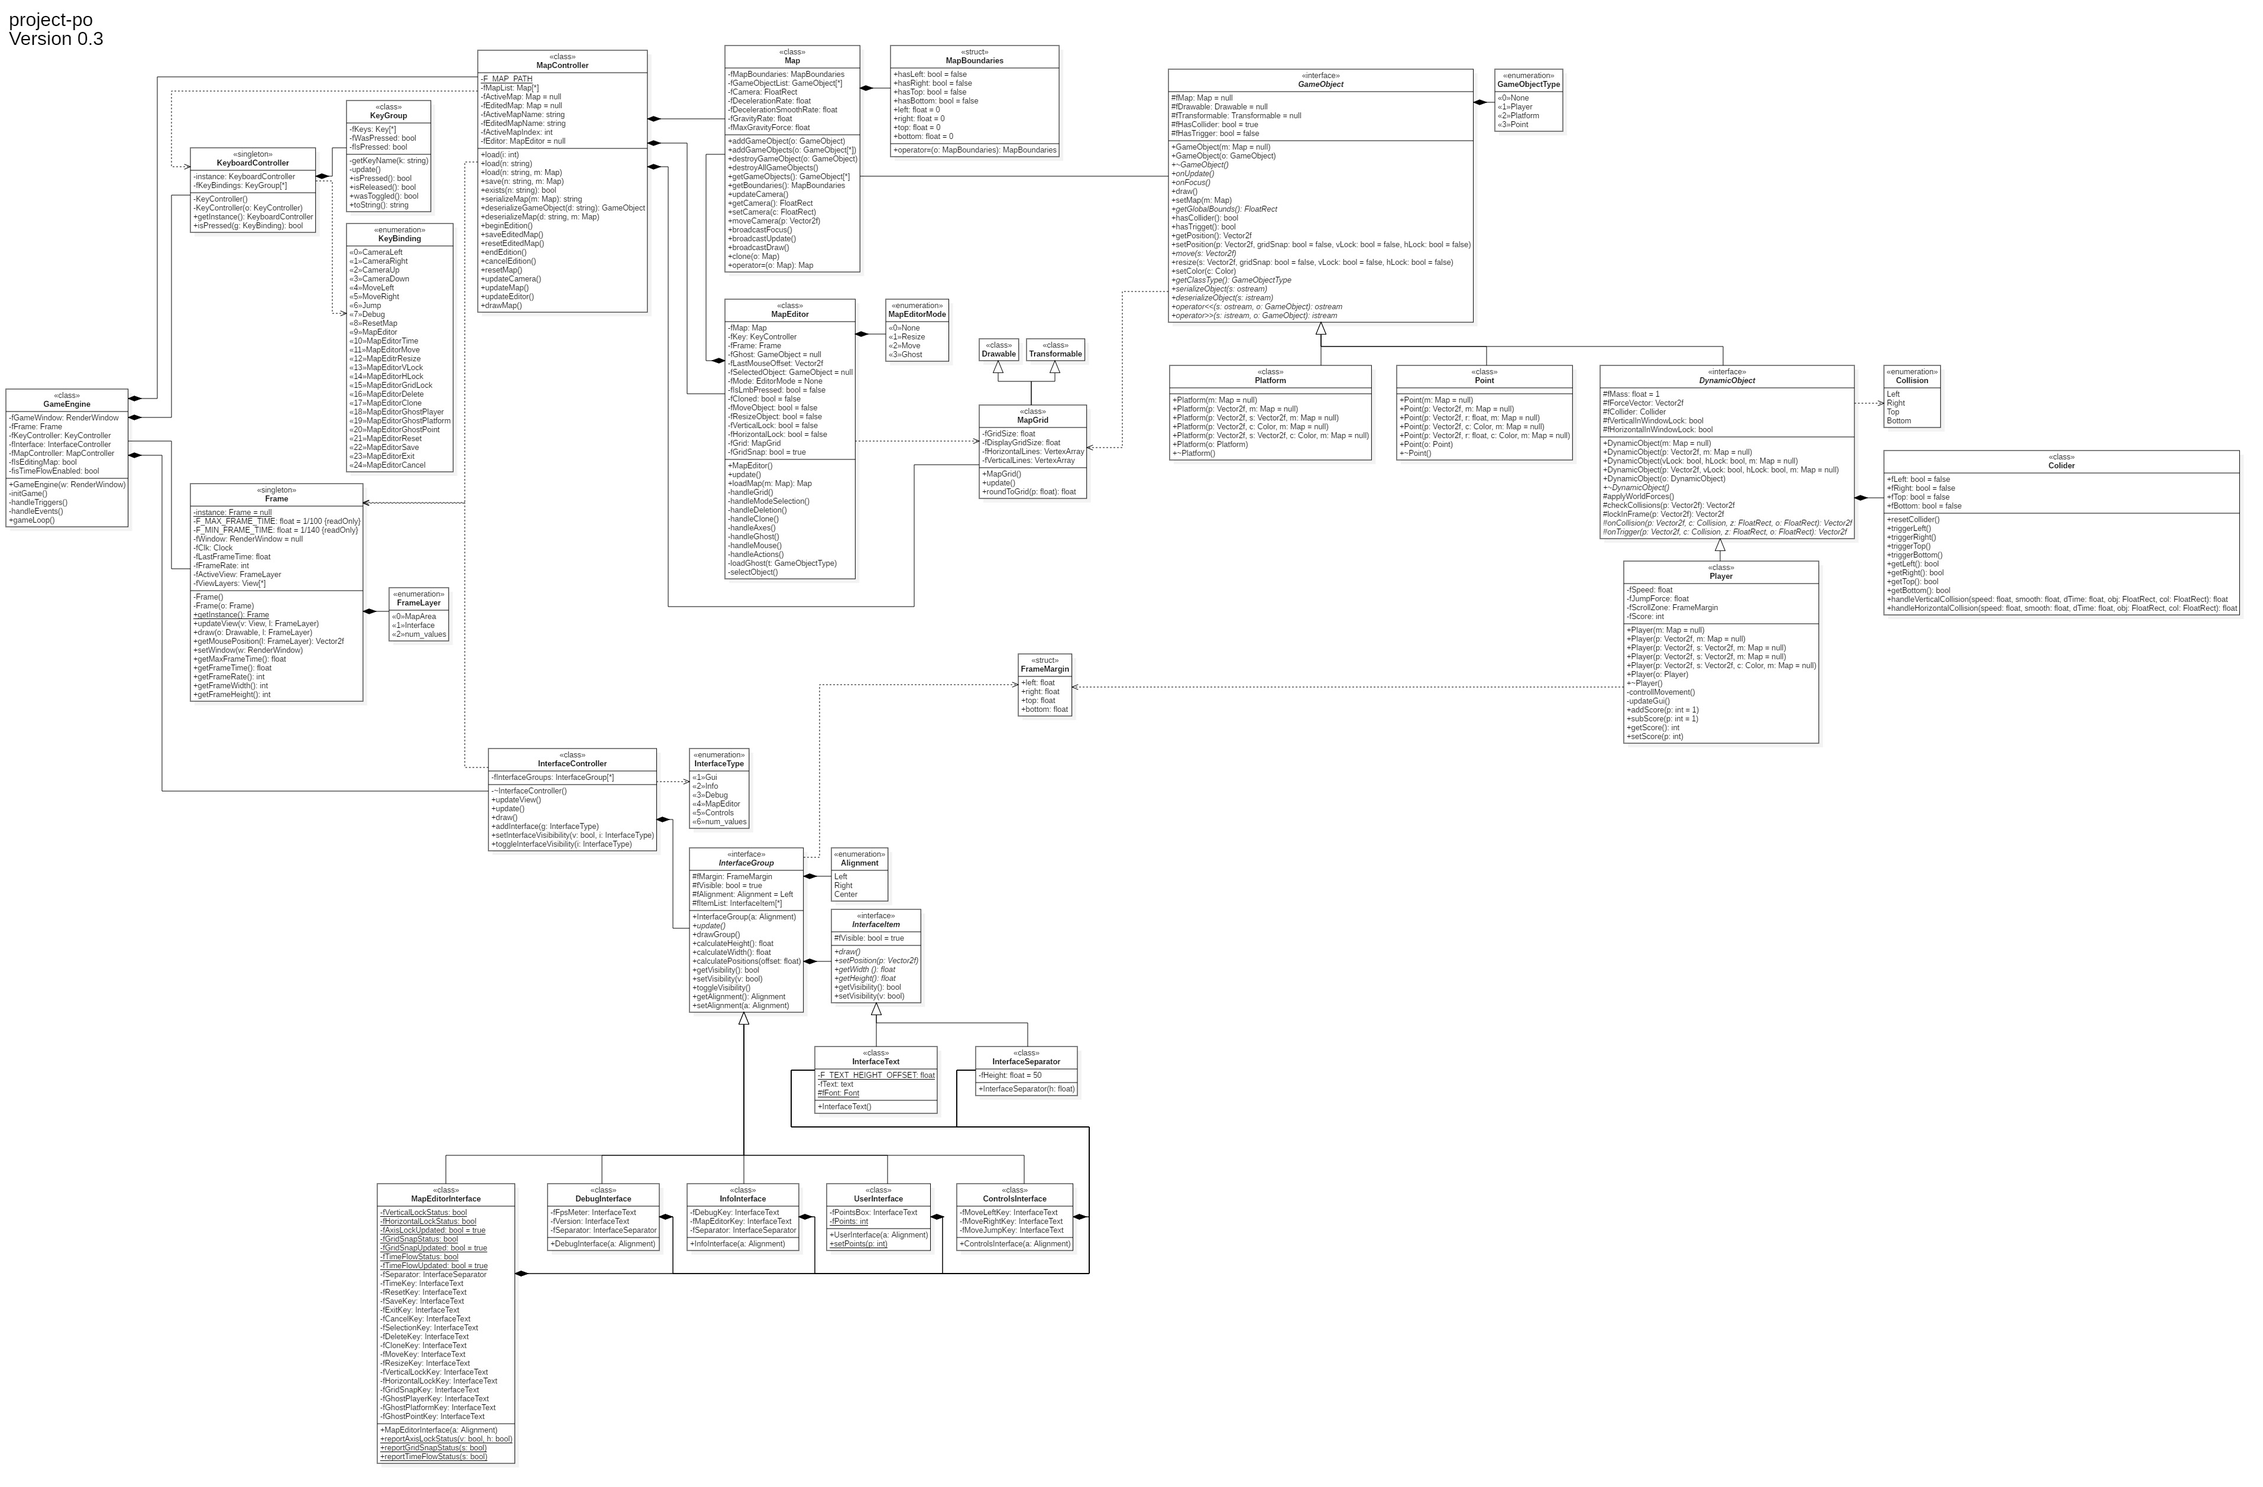
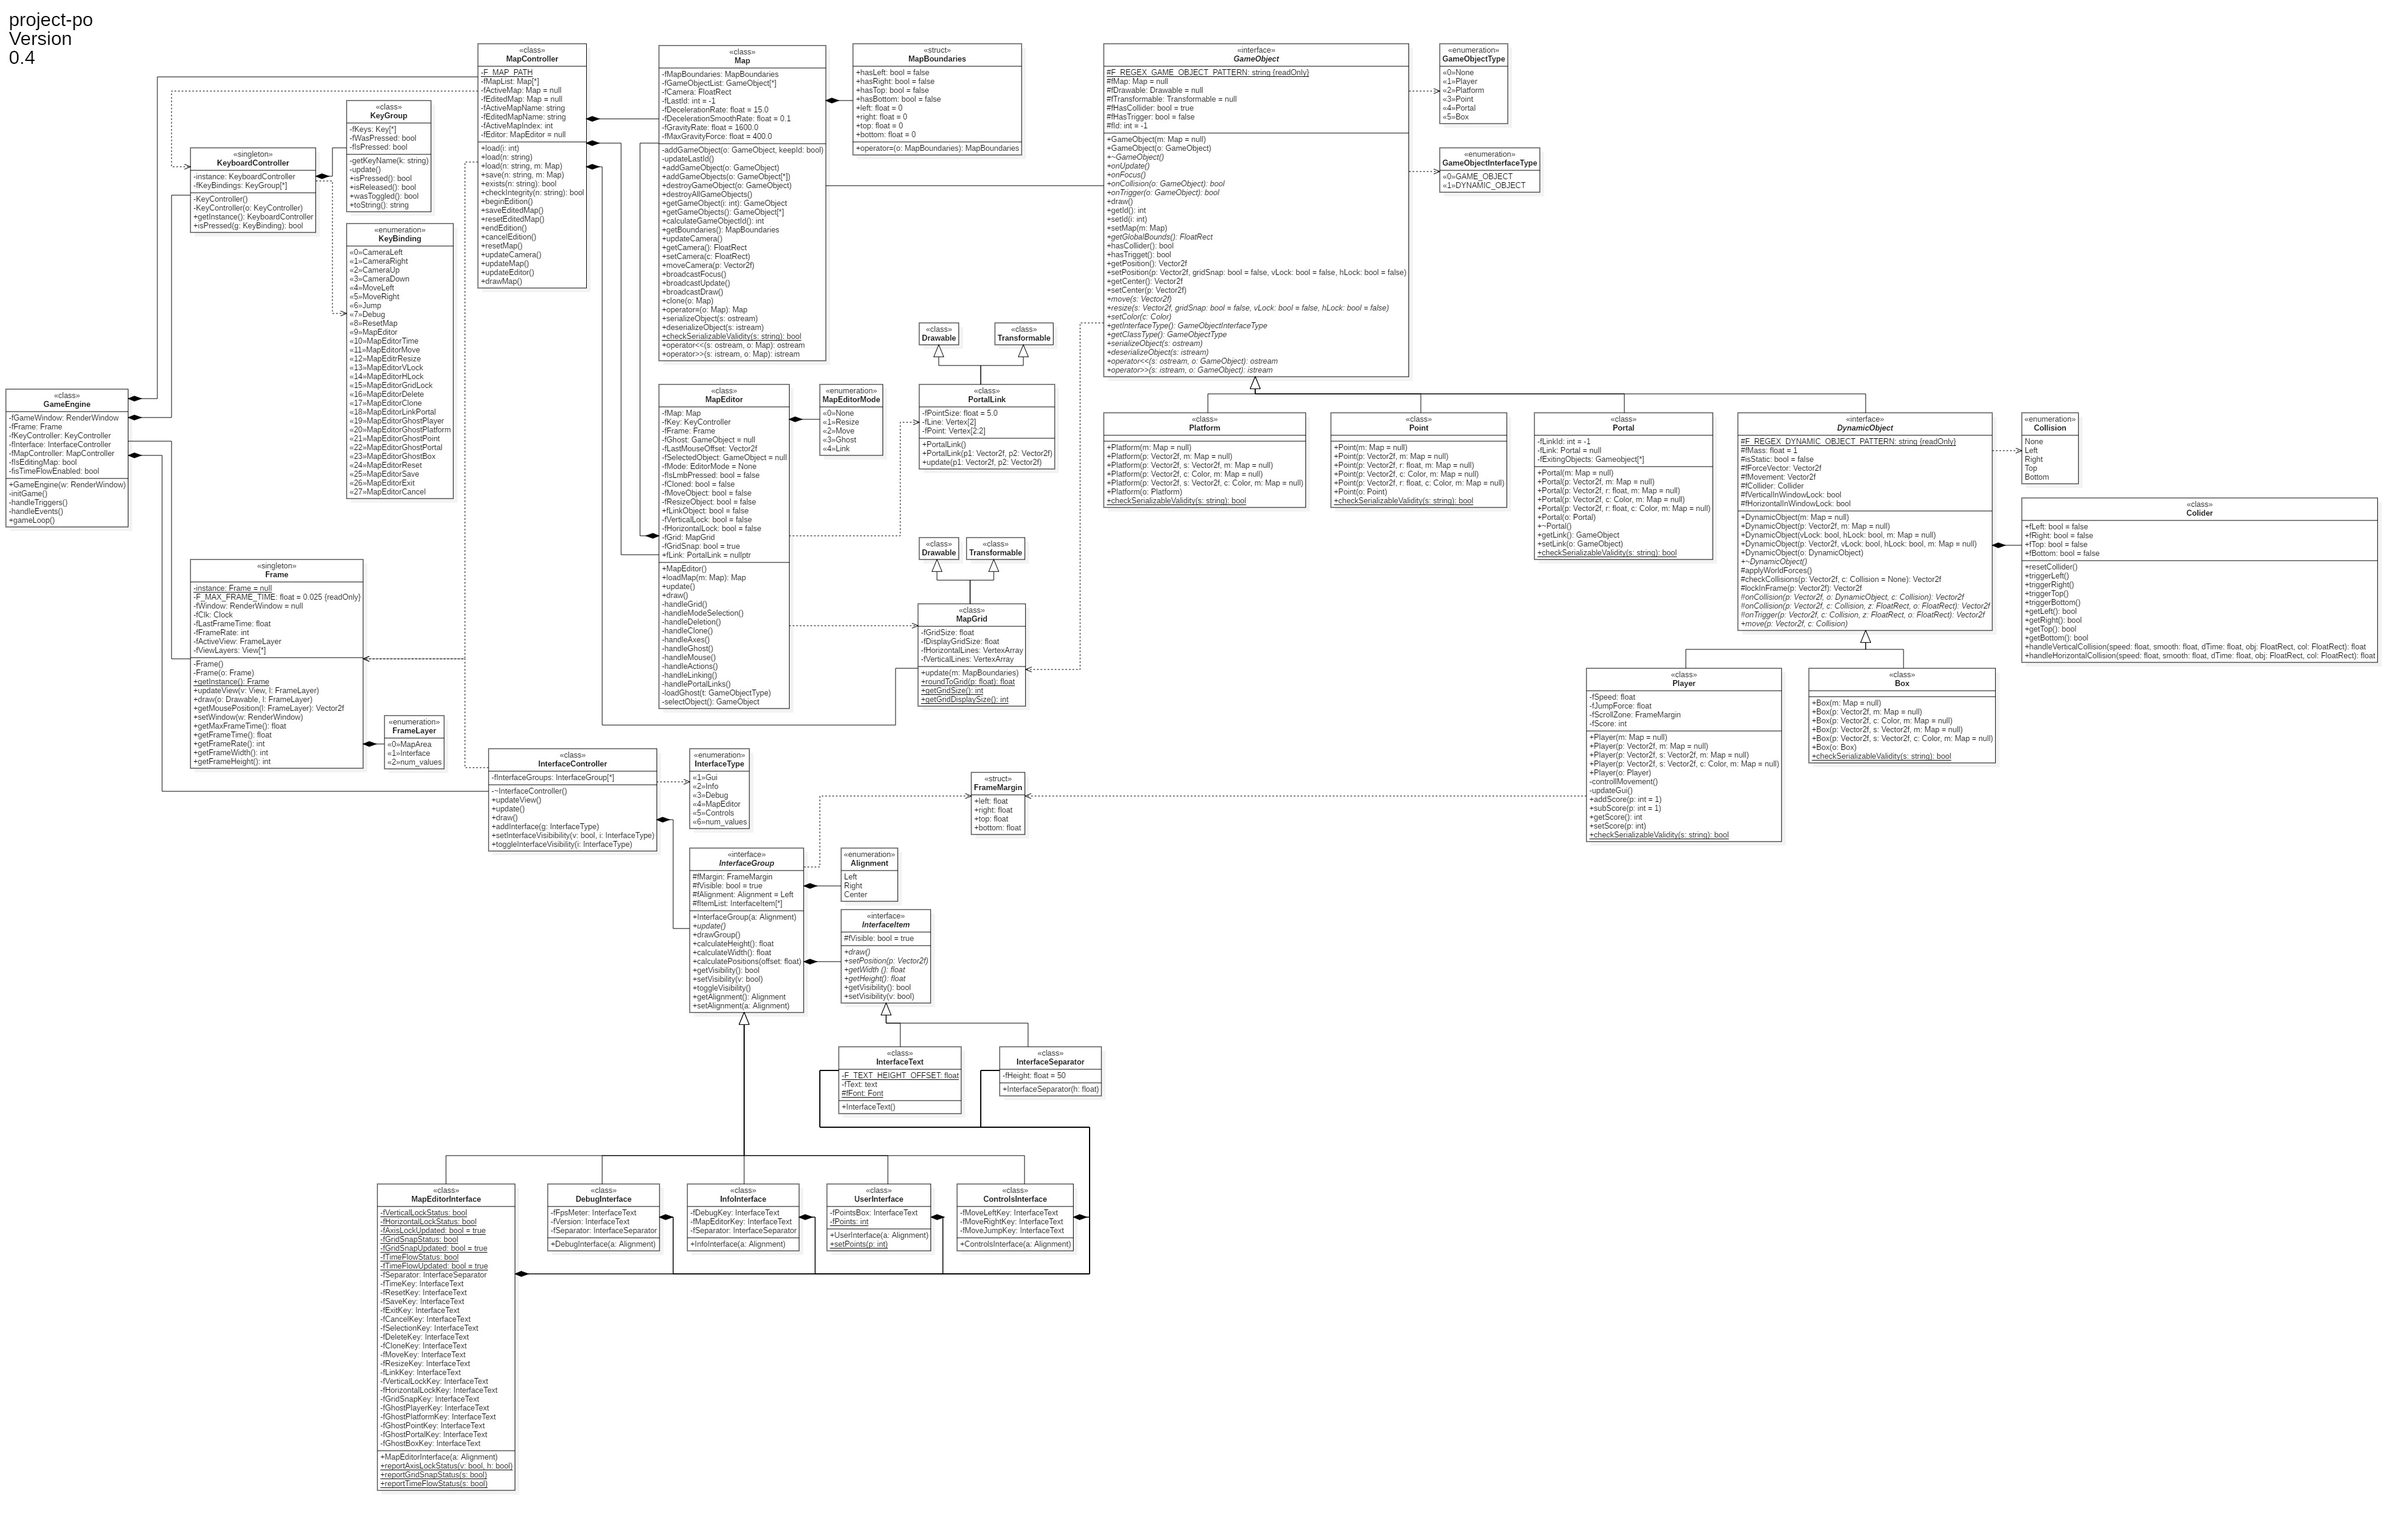
Updated UML, version 0.4

diff --git a/src/GameConstants.h b/src/GameConstants.h
@@ -1,7 +1,7 @@
 #pragma once
 #include <string>
 #include <SFML/Config.hpp>
-const std::string GAME_VERSION = "0.3"; 
+const std::string GAME_VERSION = "0.4"; 
 
 const std::string REGEX_WHITESPACE = "\\s*";
 const std::string REGEX_FLOAT_PATTERN = "(-?\\d+(\\.\\d+)?\\s+)";
